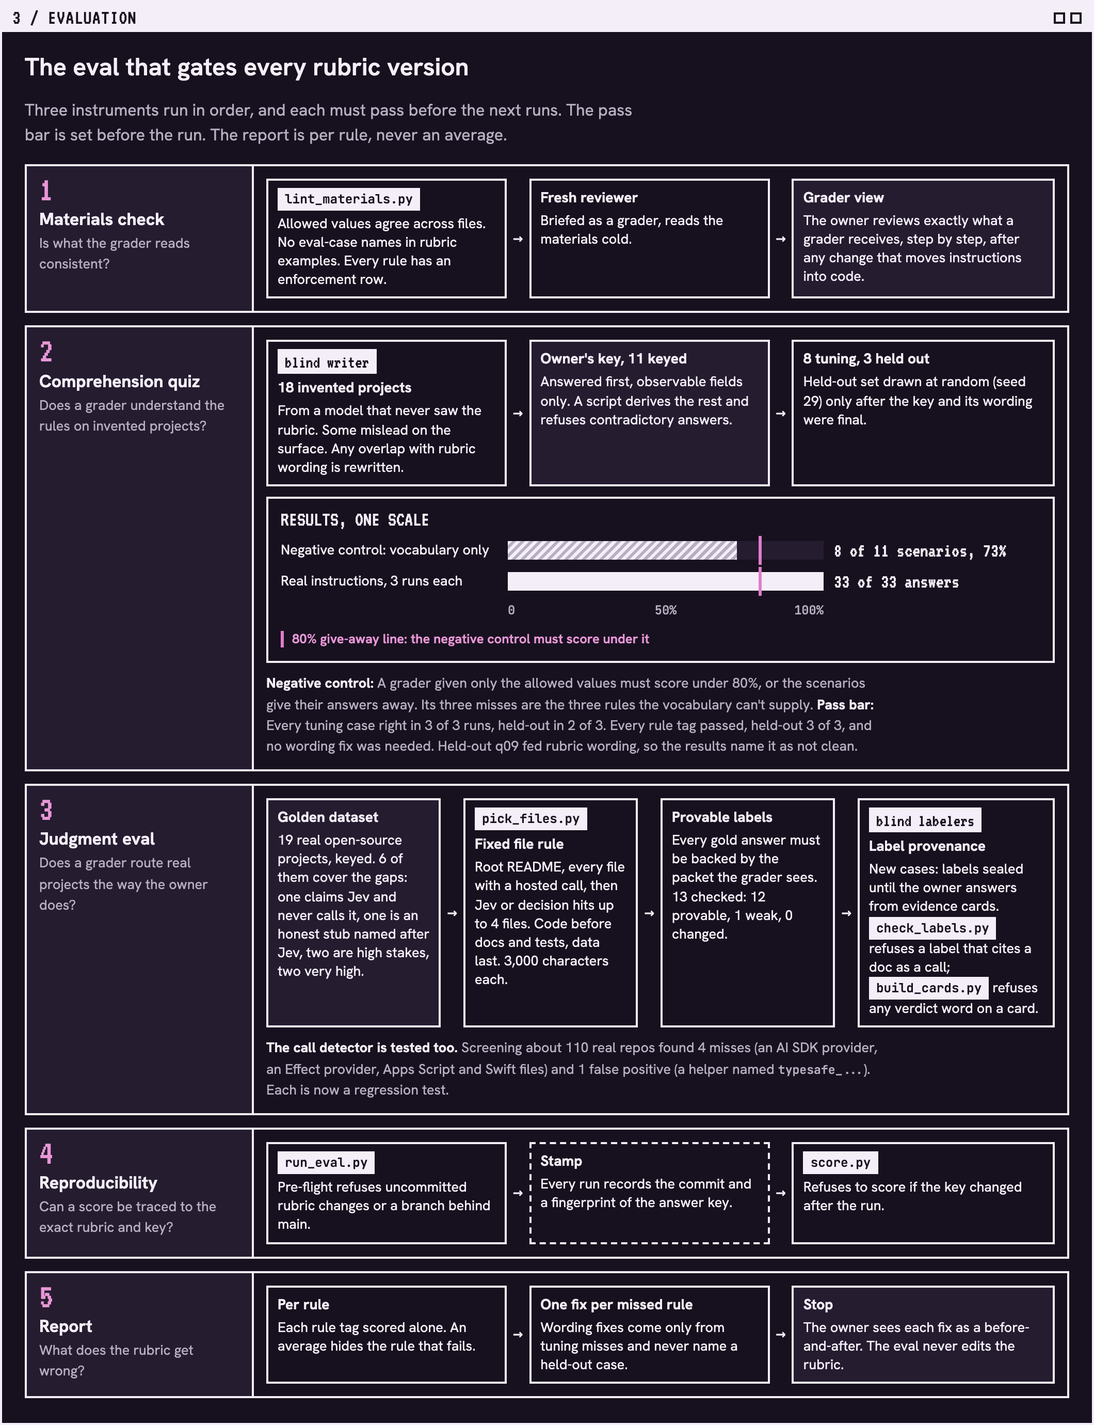
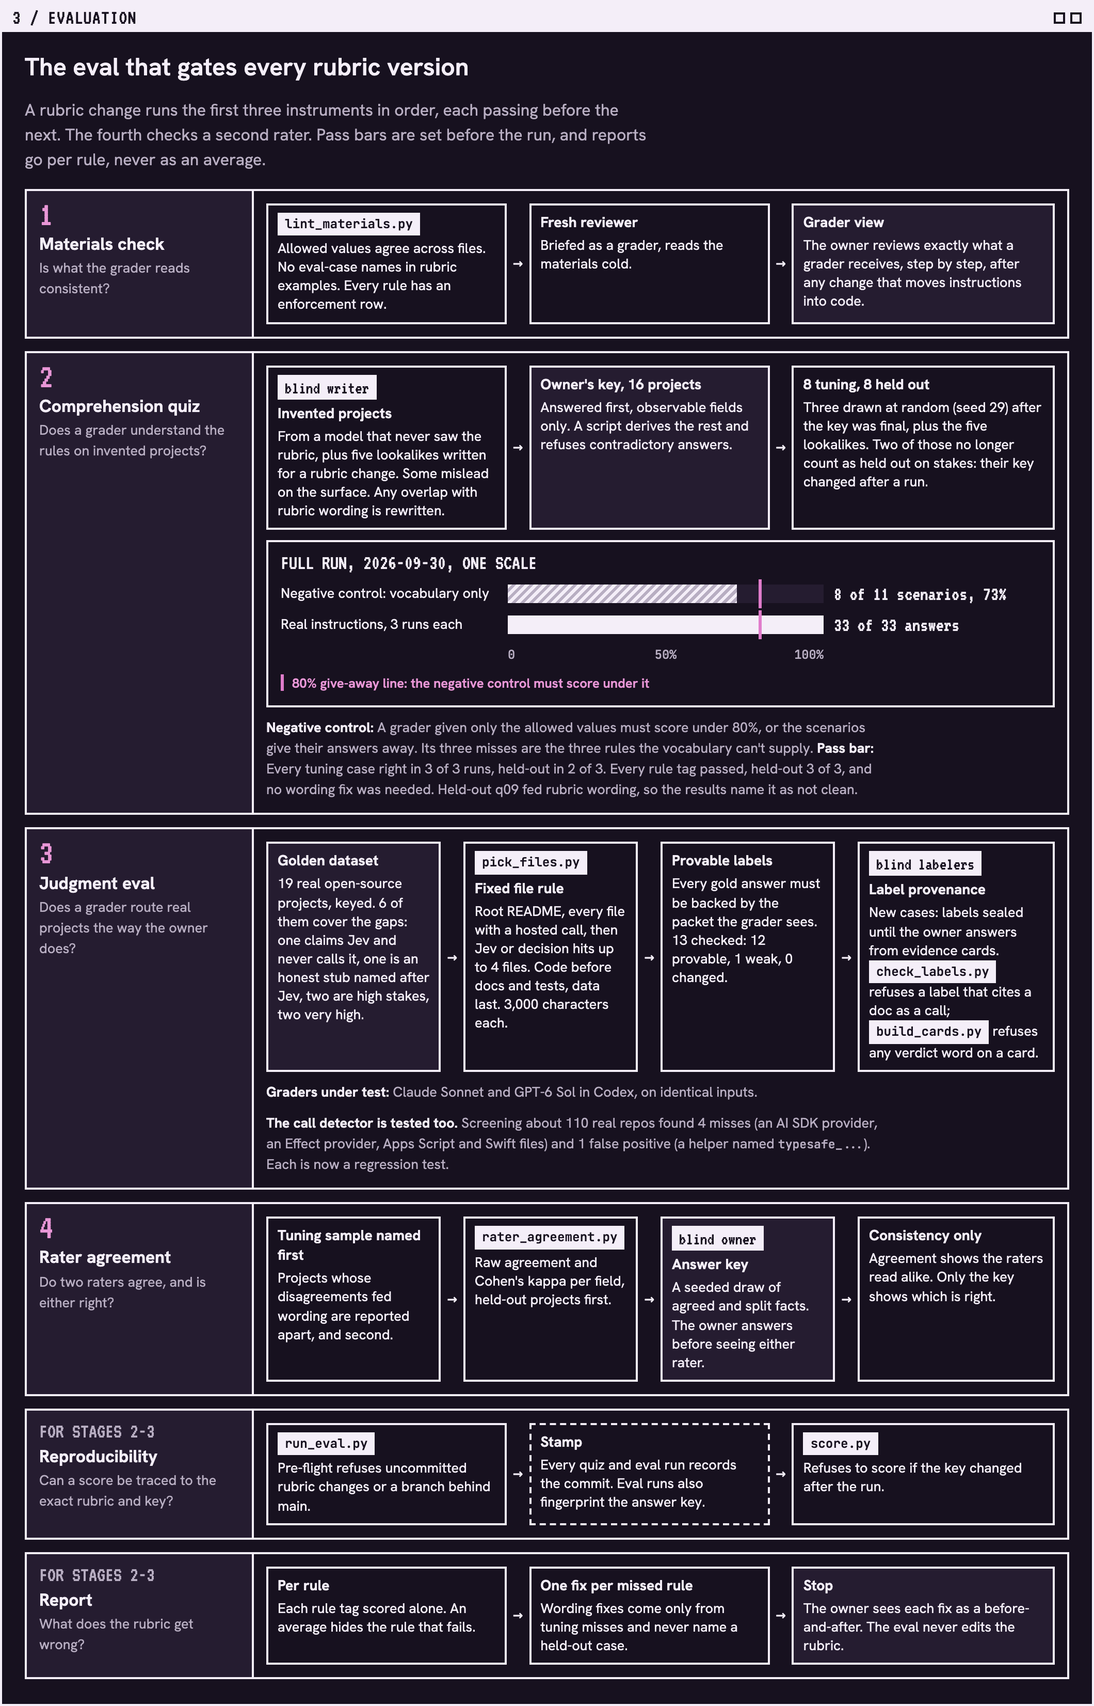
system page: four skills, two raters, round order as run, display type, rater agreement, blinding rows; re-cropped README images

Changed region(s): [[0.0, 0.0, 0.9962, 1.0]]

diff --git a/system/index.html b/system/index.html
@@ -82,13 +82,15 @@ h2 { font-weight: 600; font-size: 1.5rem; line-height: 1.15; margin: 0 }
 .lg.t { background: var(--paper); border: 2px solid var(--line) }
 
 /* diagram 1: pieces and flows */
-.cast { display: grid; grid-template-columns: repeat(4, minmax(0, 1fr)); gap: 12px }
+.cast { display: grid; grid-template-columns: repeat(3, minmax(0, 1fr)); gap: 12px }
 .piece { border: 2px solid var(--line); display: flex; flex-direction: column; min-width: 0 }
 .piece .nm { font-family: var(--pixel); font-size: 22px; line-height: 1; padding: 6px 10px 5px; border-bottom: 2px solid var(--line); color: var(--on-fill) }
 .piece.rate .nm { background: var(--pink) }
 .piece.eval .nm { background: var(--sage) }
 .piece.harn .nm { background: var(--ink); color: var(--bg) }
-.piece.over { border-style: dashed }
+.piece.over { border-style: dashed; grid-column: span 2 }
+.piece.priv { border-style: dashed }
+.piece.priv .nm { border-bottom-style: dashed }
 .piece.over .nm { background: var(--paper); color: var(--ink); border-bottom-style: dashed }
 .piece .bd { padding: 10px 12px 12px; display: grid; gap: 6px; font-size: .88rem; align-content: start }
 .piece .role { font-weight: 700; font-size: .95rem }
@@ -146,6 +148,7 @@ svg .end { text-anchor: end }
 .stage { border: 2px solid var(--line); display: grid; grid-template-columns: 220px minmax(0, 1fr) }
 .stage > header { background: var(--paper); border-right: 2px solid var(--line); padding: 10px 12px 12px; display: grid; gap: 4px; align-content: start }
 .stage .n { font-family: var(--pixel); font-size: 34px; line-height: .8; color: var(--magenta-ink) }
+.stage .n.all { font-size: 20px; line-height: 1; color: var(--dim) }
 .stage h3 { margin: 0; font-size: 1.05rem; line-height: 1.2 }
 .stage header p { font-size: .84rem; color: var(--dim) }
 .stage .body { padding: 12px; display: grid; gap: 10px; min-width: 0 }
@@ -220,7 +223,7 @@ footer.foot { font-family: var(--mono); font-size: .72rem; color: var(--dim); te
   .chain > li { flex: none; flex-direction: column; align-items: stretch }
   .chain > li:not(:last-child)::after { content: "\2193"; text-align: center; padding: 2px 0 }
 }
-@media (max-width: 480px) { .cast { grid-template-columns: 1fr } }
+@media (max-width: 480px) { .cast { grid-template-columns: 1fr } .piece.over { grid-column: auto } }
 </style>
 </head>
 <body>
@@ -233,7 +236,7 @@ footer.foot { font-family: var(--mono); font-size: .72rem; color: var(--dim); te
     <h1 id="top">Jevaluate System</h1>
     <p class="lede">Jevaluate rates whether open-source projects use TypeSafe's Jev model well. The ratings are public, so every LLM rater has to read the rubric the same way. Code checks every rule a script can check. The rater reports only what it observes, and code derives the rest. An eval with blinded labels tests the rubric before any version is frozen.</p>
     <div class="chips">
-      <span class="chip hot">377 automated tests</span>
+      <span class="chip hot">798 automated tests</span>
       <span class="chip">19 golden projects keyed</span>
       <span class="chip">quiz: 33 of 33</span>
       <span class="chip">negative control: 73%</span>
@@ -259,22 +262,26 @@ footer.foot { font-family: var(--mono); font-size: .72rem; color: var(--dim); te
 <section class="win" aria-labelledby="d1-h">
   <div class="bar"><span>1 / HOW THE PIECES FIT</span><span class="dots" aria-hidden="true"><i></i><i></i></span></div>
   <div class="pad">
-    <h2 id="d1-h">Three skills and one private file</h2>
-    <p class="lead">The harness runs three workflows. A rubric change passes the eval before a git tag freezes it. A rating round sends raters through jevaluate. Publishing exports reviewed ratings in one pull request.</p>
+    <h2 id="d1-h">Four skills and one private file</h2>
+    <p class="lead">The harness runs three workflows. A rubric change passes the eval before a git tag freezes it. A rating round sends each project to one rater per model and takes their verdict-changing disagreements to the owner. Publishing exports reviewed ratings in one pull request.</p>
 
     <div class="cast">
       <div class="piece rate"><div class="nm">jevaluate</div><div class="bd">
         <p class="role">Rates one project</p>
         <p class="q">Does this project use Jev well?</p>
-        <p>The rater follows <code>SKILL.md</code> and <code>read.md</code>. About 45k tokens plus the files it reads.</p></div></div>
+        <p>The rater follows <code>SKILL.md</code> and <code>read.md</code>. A rating costs about 100-300k tokens, by repo size.</p></div></div>
+      <div class="piece rate priv"><div class="nm">jevaluate-private</div><div class="bd">
+        <p class="role">Rates one project, never published</p>
+        <p class="q">Does my private code use Jev well?</p>
+        <p>Same rubric and checks. The rating stays in a private library that export refuses.</p></div></div>
       <div class="piece eval"><div class="nm">jevaluate-eval</div><div class="bd">
         <p class="role">Tests the rubric</p>
         <p class="q">Do graders apply the rubric correctly?</p>
-        <p>Materials check, quiz, judgment eval. Proposes wording fixes. Never edits the rubric or a rating.</p></div></div>
+        <p>Materials check, quiz, judgment eval, and rater agreement for a second rater. Proposes wording fixes. Never edits the rubric or a rating.</p></div></div>
       <div class="piece harn"><div class="nm">jevaluate-harness</div><div class="bd">
         <p class="role">Runs the process</p>
         <p class="q">How do I run a round, change the rubric or publish?</p>
-        <p><span class="scr">harness_status.py</span> reruns the scripted gates and names the next step.</p></div></div>
+        <p><span class="scr">harness_status.py</span> reruns the materials lint and the release check and names the next step.</p></div></div>
       <div class="piece over"><div class="nm">overlay (private)</div><div class="bd">
         <p class="role">The owner's own rules</p>
         <p class="q">Which extra gates apply here?</p>
@@ -300,12 +307,15 @@ footer.foot { font-family: var(--mono); font-size: .72rem; color: var(--dim); te
           <li><span class="st">picked</span></li>
           <li><span class="st">sized</span></li>
           <li><span class="st">costs approved</span></li>
-          <li><div class="grp rate"><small>jevaluate, one rater per project</small><ol>
-            <li><span class="st">rater reads the code</span></li><li><span class="scr">step.py</span></li><li><span class="scr">library.py check</span></li><li><span class="scr">library.py add</span></li></ol></div></li>
+          <li><div class="grp rate"><small>jevaluate, one rater per model</small><ol>
+            <li><span class="st">rater reads the code</span></li><li><span class="scr">step.py</span></li><li><span class="scr">library.py check</span></li></ol></div></li>
           <li><span class="scr">scan_transcripts.py</span></li>
+          <li><span class="scr">library.py add</span></li>
           <li><span class="st">adjudicated</span></li>
+          <li><span class="scr">dispute_packet.py</span></li>
+          <li><span class="st">owner rules</span></li>
+          <li><span class="scr">library.py review</span></li>
           <li><span class="st">final gate</span></li>
-          <li><span class="st">release check</span></li>
         </ol>
       </div>
       <div class="lane">
@@ -313,6 +323,8 @@ footer.foot { font-family: var(--mono); font-size: .72rem; color: var(--dim); te
         <ol class="flow">
           <li><span class="st">reviewed ratings</span></li>
           <li><span class="scr">library.py export</span></li>
+          <li><span class="st">page review</span></li>
+          <li><span class="scr">check_release.py</span></li>
           <li><span class="st">one pull request</span></li>
         </ol>
       </div>
@@ -339,7 +351,7 @@ footer.foot { font-family: var(--mono); font-size: .72rem; color: var(--dim); te
       <span><i class="lg s"></i>script</span>
     </div>
     <p class="hint">Scroll sideways to see the whole chart.</p>
-    <div class="scroll" role="img" aria-label="Routing flowchart. Does the non-test code call hosted Jev? If yes, the type follows from what the code does with the answers: workflow, demo, agent-tool, library or client, or 1c if nothing uses the Jev calls' answers. If no: guide (1t), jev-replacement (1a if it claims to be Jev, else 1r) or jev-mention-only (1a if it claims to call Jev, else 1b). Uses types then record stakes per decision and go through facts, scores, comparison cards and verdict, one phase at a time. Scripts: jev_callsites.py and library.py check for the call; step.py and library.py check on stakes; step.py, library.py check, library.py add and scan_transcripts.py on every phase.">
+    <div class="scroll" role="img" aria-label="Routing flowchart. Does the non-test code call hosted Jev? If yes, the type follows from what the code does with the answers: workflow, display, agent-tool, library or client, or 1c if nothing uses the Jev calls' answers. If no: guide (1t), jev-replacement (1a if it claims to be Jev, else 1r) or jev-mention-only (1a if it claims to call Jev, else 1b). Uses types then record stakes per decision and go through facts, scores, comparison cards and verdict, one phase at a time. Scripts: jev_callsites.py and library.py check for the call; step.py and library.py check on stakes; step.py, library.py check, library.py add and scan_transcripts.py on every phase.">
 <svg viewBox="0 0 1000 880" aria-hidden="true">
   <defs><marker id="ah" viewBox="0 0 10 10" refX="10" refY="5" markerUnits="userSpaceOnUse" markerWidth="10" markerHeight="10" orient="auto"><path class="ah" d="M0,0 L10,5 L0,10 z"/></marker></defs>
 
@@ -383,7 +395,7 @@ footer.foot { font-family: var(--mono); font-size: .72rem; color: var(--dim); te
   <rect class="typ" x="40" y="282" width="140" height="58"/>
   <text class="mn" x="49" y="302">workflow</text><text class="sm" x="49" y="320">acts on them</text>
   <rect class="typ" x="190" y="282" width="140" height="58"/>
-  <text class="mn" x="199" y="302">demo</text><text class="sm" x="199" y="320">only shows them</text><text class="sm" x="199" y="334">to a person</text>
+  <text class="mn" x="199" y="302">display</text><text class="sm" x="199" y="320">only shows them</text><text class="sm" x="199" y="334">to a person</text>
   <rect class="typ" x="340" y="282" width="140" height="58"/>
   <text class="mn" x="349" y="302">agent-tool</text><text class="sm" x="349" y="320">hands them to</text><text class="sm" x="349" y="334">an AI agent</text>
 
@@ -459,7 +471,7 @@ footer.foot { font-family: var(--mono); font-size: .72rem; color: var(--dim); te
   <text class="qt mid" x="377" y="679">Scores and stages</text>
   <line class="ln" x1="478" y1="674" x2="522" y2="674" marker-end="url(#ah)"/>
   <rect class="box" x="522" y="650" width="202" height="48"/>
-  <text class="qt mid" x="623" y="679">Comparison cards</text>
+  <text class="qt mid" x="623" y="671">Comparison cards</text><text class="sm dim mid" x="623" y="689">and the previous rating</text>
   <line class="ln" x1="724" y1="674" x2="768" y2="674" marker-end="url(#ah)"/>
   <rect class="box" x="768" y="650" width="202" height="48"/>
   <text class="qt mid" x="869" y="671">Verdict</text><text class="sm dim mid" x="869" y="689">1 to 5</text>
@@ -472,14 +484,14 @@ footer.foot { font-family: var(--mono); font-size: .72rem; color: var(--dim); te
   <rect class="box" x="515" y="732" width="455" height="62"/><rect class="sbar" x="515" y="732" width="455" height="20"/>
   <text class="sn" x="523" y="746">library.py check</text>
   <text class="sm" x="523" y="769">refuses a missing step log, phases out of order or a broken format;</text>
-  <text class="sm" x="523" y="785">applies caps and fatal flaws to the verdict</text>
+  <text class="sm" x="523" y="785">refuses a verdict above its cap, fatal flaws included</text>
   <rect class="box" x="30" y="806" width="455" height="62"/><rect class="sbar" x="30" y="806" width="455" height="20"/>
   <text class="sn" x="38" y="820">library.py add</text>
   <text class="sm" x="38" y="843">logs the rating and writes the derived fields:</text>
   <text class="sm" x="38" y="859">kind, top stakes and every n.a.</text>
   <rect class="box" x="515" y="806" width="455" height="62"/><rect class="sbar" x="515" y="806" width="455" height="20"/>
   <text class="sn" x="523" y="820">scan_transcripts.py</text>
-  <text class="sm" x="523" y="843">reads each rater's tool calls after the round; flags reading</text>
+  <text class="sm" x="523" y="843">reads each rater's tool calls before logging; flags reading</text>
   <text class="sm" x="523" y="859">the rubric ahead or writing the controller's approval files</text>
 </svg>
     </div>
@@ -490,7 +502,7 @@ footer.foot { font-family: var(--mono); font-size: .72rem; color: var(--dim); te
   <div class="bar"><span>3 / EVALUATION</span><span class="dots" aria-hidden="true"><i></i><i></i></span></div>
   <div class="pad">
     <h2 id="d3-h">The eval that gates every rubric version</h2>
-    <p class="lead">Three instruments run in order, and each must pass before the next runs. The pass bar is set before the run. The report is per rule, never an average.</p>
+    <p class="lead">A rubric change runs the first three instruments in order, each passing before the next. The fourth checks a second rater. Pass bars are set before the run, and reports go per rule, never as an average.</p>
 
     <ol class="stages">
       <li class="stage">
@@ -506,12 +518,12 @@ footer.foot { font-family: var(--mono); font-size: .72rem; color: var(--dim); te
         <header><span class="n">2</span><h3>Comprehension quiz</h3><p>Does a grader understand the rules on invented projects?</p></header>
         <div class="body">
           <ol class="chain">
-            <li><div class="cell"><span class="tag blind">blind writer</span><b>18 invented projects</b><span>From a model that never saw the rubric. Some mislead on the surface. Any overlap with rubric wording is rewritten.</span></div></li>
-            <li><div class="cell pk"><b>Owner's key, 11 keyed</b><span>Answered first, observable fields only. A script derives the rest and refuses contradictory answers.</span></div></li>
-            <li><div class="cell"><b>8 tuning, 3 held out</b><span>Held-out set drawn at random (seed 29) only after the key and its wording were final.</span></div></li>
+            <li><div class="cell"><span class="tag blind">blind writer</span><b>Invented projects</b><span>From a model that never saw the rubric, plus five lookalikes written for a rubric change. Some mislead on the surface. Any overlap with rubric wording is rewritten.</span></div></li>
+            <li><div class="cell pk"><b>Owner's key, 16 projects</b><span>Answered first, observable fields only. A script derives the rest and refuses contradictory answers.</span></div></li>
+            <li><div class="cell"><b>8 tuning, 8 held out</b><span>Three drawn at random (seed 29) after the key was final, plus the five lookalikes. Two of those no longer count as held out on stakes: their key changed after a run.</span></div></li>
           </ol>
           <div class="bars" role="group" aria-label="Quiz results on one 0 to 100 percent scale">
-            <h4>RESULTS, ONE SCALE</h4>
+            <h4>FULL RUN, 2026-09-30, ONE SCALE</h4>
             <div class="brow"><span class="lbl">Negative control: vocabulary only</span><div class="track"><div class="fill ctl" style="width:72.7%"></div><div class="tick" style="left:80%"></div></div><span class="val">8 of 11 scenarios, 73%</span></div>
             <div class="brow"><span class="lbl">Real instructions, 3 runs each</span><div class="track"><div class="fill" style="width:100%"></div><div class="tick" style="left:80%"></div></div><span class="val">33 of 33 answers</span></div>
             <div class="axis"><span></span><div class="sc"><span style="left:0">0</span><span style="left:50%">50%</span><span style="left:100%">100%</span></div><span></span></div>
@@ -530,21 +542,32 @@ footer.foot { font-family: var(--mono); font-size: .72rem; color: var(--dim); te
             <li><div class="cell"><b>Provable labels</b><span>Every gold answer must be backed by the packet the grader sees. 13 checked: 12 provable, 1 weak, 0 changed.</span></div></li>
             <li><div class="cell"><span class="tag blind">blind labelers</span><b>Label provenance</b><span>New cases: labels sealed until the owner answers from evidence cards. <span class="scr">check_labels.py</span> refuses a label that cites a doc as a call; <span class="scr">build_cards.py</span> refuses any verdict word on a card.</span></div></li>
           </ol>
+          <p class="note"><b>Graders under test:</b> Claude Sonnet and GPT-6 Sol in Codex, on identical inputs.</p>
           <p class="note"><b>The call detector is tested too.</b> Screening about 110 real repos found 4 misses (an AI SDK provider, an Effect provider, Apps Script and Swift files) and 1 false positive (a helper named <code>typesafe_...</code>). Each is now a regression test.</p>
         </div>
       </li>
 
       <li class="stage">
-        <header><span class="n">4</span><h3>Reproducibility</h3><p>Can a score be traced to the exact rubric and key?</p></header>
+        <header><span class="n">4</span><h3>Rater agreement</h3><p>Do two raters agree, and is either right?</p></header>
+        <div class="body"><ol class="chain">
+          <li><div class="cell"><b>Tuning sample named first</b><span>Projects whose disagreements fed wording are reported apart, and second.</span></div></li>
+          <li><div class="cell"><span class="scr">rater_agreement.py</span><span>Raw agreement and Cohen's kappa per field, held-out projects first.</span></div></li>
+          <li><div class="cell pk"><span class="tag blind">blind owner</span><b>Answer key</b><span>A seeded draw of agreed and split facts. The owner answers before seeing either rater.</span></div></li>
+          <li><div class="cell"><b>Consistency only</b><span>Agreement shows the raters read alike. Only the key shows which is right.</span></div></li>
+        </ol></div>
+      </li>
+
+      <li class="stage">
+        <header><span class="n all">FOR STAGES 2-3</span><h3>Reproducibility</h3><p>Can a score be traced to the exact rubric and key?</p></header>
         <div class="body"><ol class="chain">
           <li><div class="cell"><span class="scr">run_eval.py</span><span>Pre-flight refuses uncommitted rubric changes or a branch behind main.</span></div></li>
-          <li><div class="cell drv"><b>Stamp</b><span>Every run records the commit and a fingerprint of the answer key.</span></div></li>
+          <li><div class="cell drv"><b>Stamp</b><span>Every quiz and eval run records the commit. Eval runs also fingerprint the answer key.</span></div></li>
           <li><div class="cell"><span class="scr">score.py</span><span>Refuses to score if the key changed after the run.</span></div></li>
         </ol></div>
       </li>
 
       <li class="stage">
-        <header><span class="n">5</span><h3>Report</h3><p>What does the rubric get wrong?</p></header>
+        <header><span class="n all">FOR STAGES 2-3</span><h3>Report</h3><p>What does the rubric get wrong?</p></header>
         <div class="body"><ol class="chain">
           <li><div class="cell"><b>Per rule</b><span>Each rule tag scored alone. An average hides the rule that fails.</span></div></li>
           <li><div class="cell"><b>One fix per missed rule</b><span>Wording fixes come only from tuning misses and never name a held-out case.</span></div></li>
@@ -565,9 +588,11 @@ footer.foot { font-family: var(--mono); font-size: .72rem; color: var(--dim); te
       <tbody>
         <tr><th scope="row">Scenario writer</th><td data-k="Blind to">The rubric and the answer keys</td><td data-k="Why">Scenarios that echo rubric wording test string matching, not understanding.</td><td data-k="Term"><span class="tag">leakage</span></td></tr>
         <tr><th scope="row">The owner, setting the key</th><td data-k="Blind to">Every model answer and the controller's reading, until the key is set</td><td data-k="Why">Golden labels can't anchor on a model.</td><td data-k="Term"><span class="tag">anchoring</span></td></tr>
+        <tr><th scope="row">The owner, ruling on a disagreement</th><td data-k="Blind to">Which rater gave which answer: two answers, A and B, in seeded order, with the rule and the code</td><td data-k="Why">A ruling can't lean toward one model.</td><td data-k="Term"><span class="tag">anchoring</span></td></tr>
         <tr><th scope="row">Blind labelers</th><td data-k="Blind to">The rubric's accept lists and each other's labels. Labels stay sealed until the owner answers.</td><td data-k="Why">An independent second opinion that can't touch the key.</td><td data-k="Term"><span class="tag">label provenance</span></td></tr>
         <tr><th scope="row">Graders under test</th><td data-k="Blind to">The answer key, eval-case names (a lint keeps them out of rubric examples), the held-out set during tuning</td><td data-k="Why">A grader that has seen the answers is scored on memory.</td><td data-k="Term"><span class="tag">contamination</span><span class="tag">overfitting</span></td></tr>
-        <tr><th scope="row">Raters in a round</th><td data-k="Blind to">The rubric past the current phase, and the project's previous rating until the facts are written</td><td data-k="Why">Stops skimming ahead and copying an old verdict.</td><td data-k="Term"><span class="tag">anchoring</span></td></tr>
+        <tr><th scope="row">Raters in a round</th><td data-k="Blind to">The rubric past the current phase, and the project's previous rating until its facts and scores are written</td><td data-k="Why">Stops skimming ahead and keeps facts and scores from leaning toward an old rating. The verdict comes after, so it can still lean.</td><td data-k="Term"><span class="tag">anchoring</span></td></tr>
+        <tr><th scope="row">Reviewer of a big verdict move</th><td data-k="Blind to">The scores and verdicts: it gets only the facts</td><td data-k="Why">It judges the move from the evidence, not from either number.</td><td data-k="Term"><span class="tag">anchoring</span></td></tr>
         <tr><th scope="row">Final gate reviewer</th><td data-k="Blind to">Any summary of the work</td><td data-k="Why">Judges the artifact, not the story told about it.</td><td data-k="Term"><span class="tag">anchoring</span></td></tr>
         <tr class="open first-open"><th scope="row">Eval controller</th><td data-k="Blind to">Nothing: it knows the key</td><td data-k="Why">It runs the eval. It may fix wording only from tuning misses, draws the held-out set after wording is final, and names any held-out item that fed wording (q09).</td><td data-k="Status"><span class="tag no">not blind</span></td></tr>
         <tr class="open"><th scope="row">The owner</th><td data-k="Blind to">Nothing: knows the rubric and rules on it</td><td data-k="Why">The domain expert the graders are tuned to match. The quiz measures agreement with that reading.</td><td data-k="Status"><span class="tag no">not blind</span></td></tr>
@@ -576,7 +601,7 @@ footer.foot { font-family: var(--mono); font-size: .72rem; color: var(--dim); te
   </div>
 </section>
 
-<footer class="foot">jev-mode / jevaluate, rubric 2026-09-29. Numbers as of 2026-09-30.</footer>
+<footer class="foot">jev-mode / jevaluate, rubric 2026-09-29.2. Test count as of 2026-10-08; quiz and eval figures from the full run of 2026-09-30.</footer>
 </main>
 </body>
 </html>
